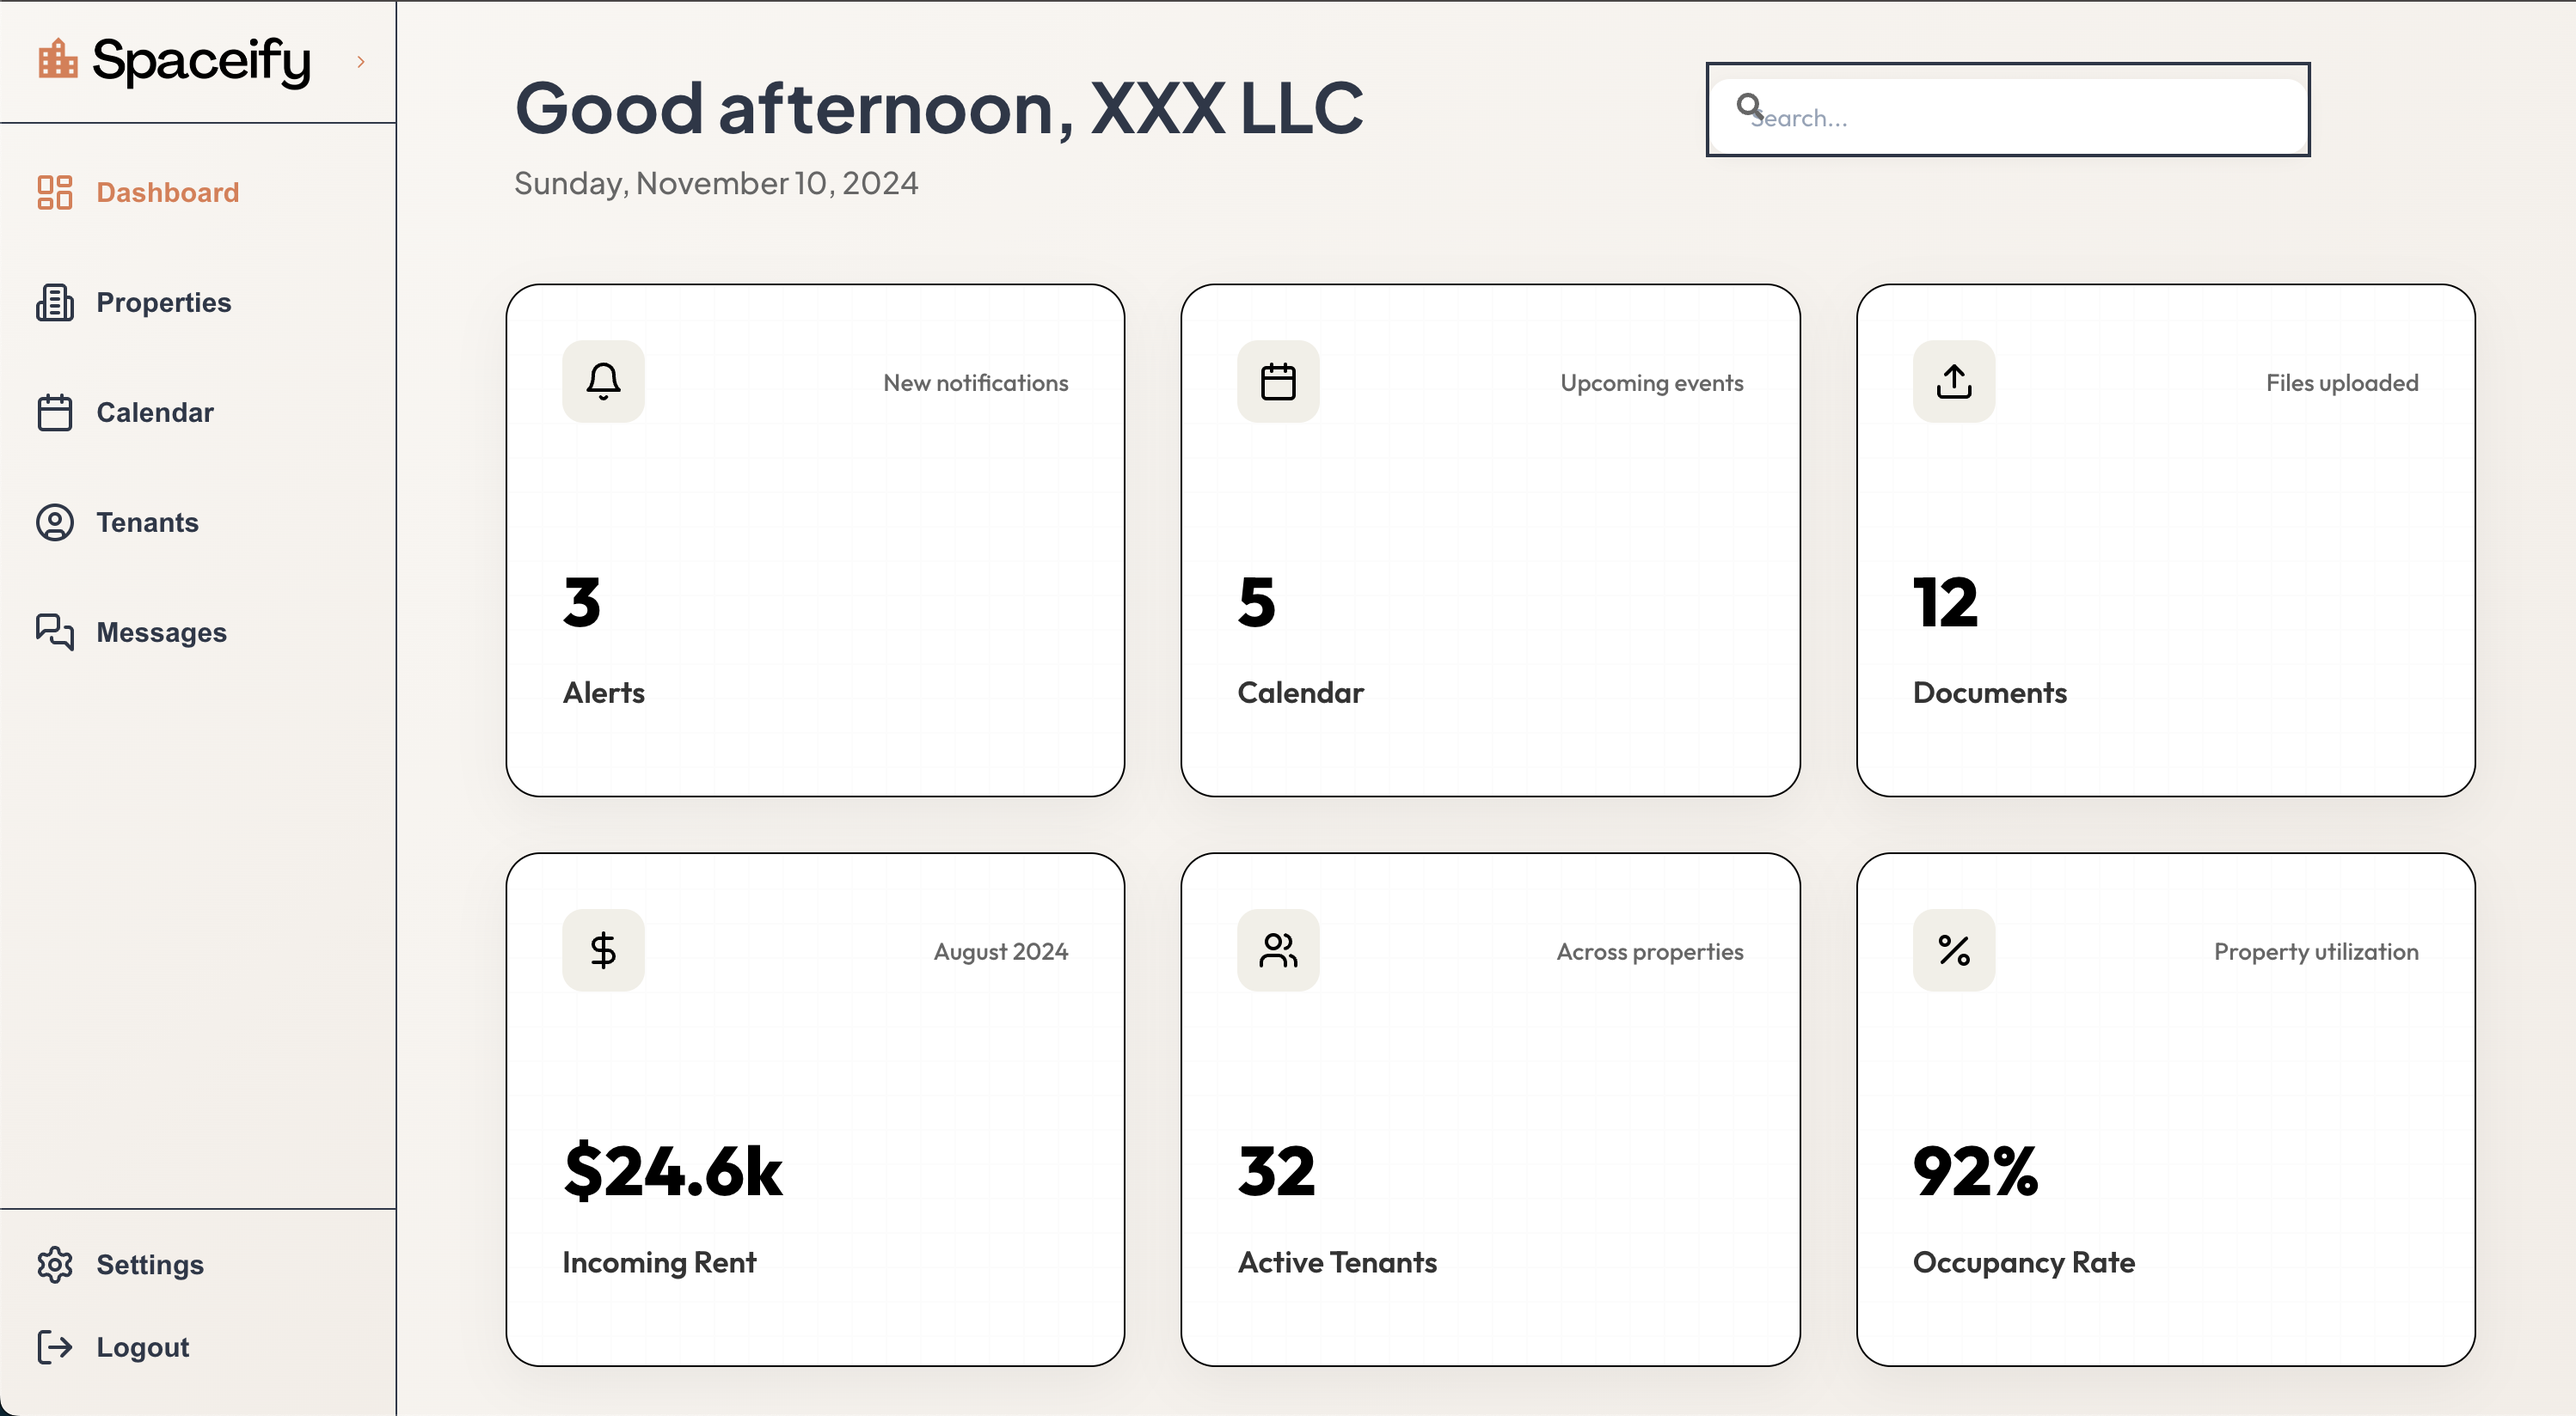
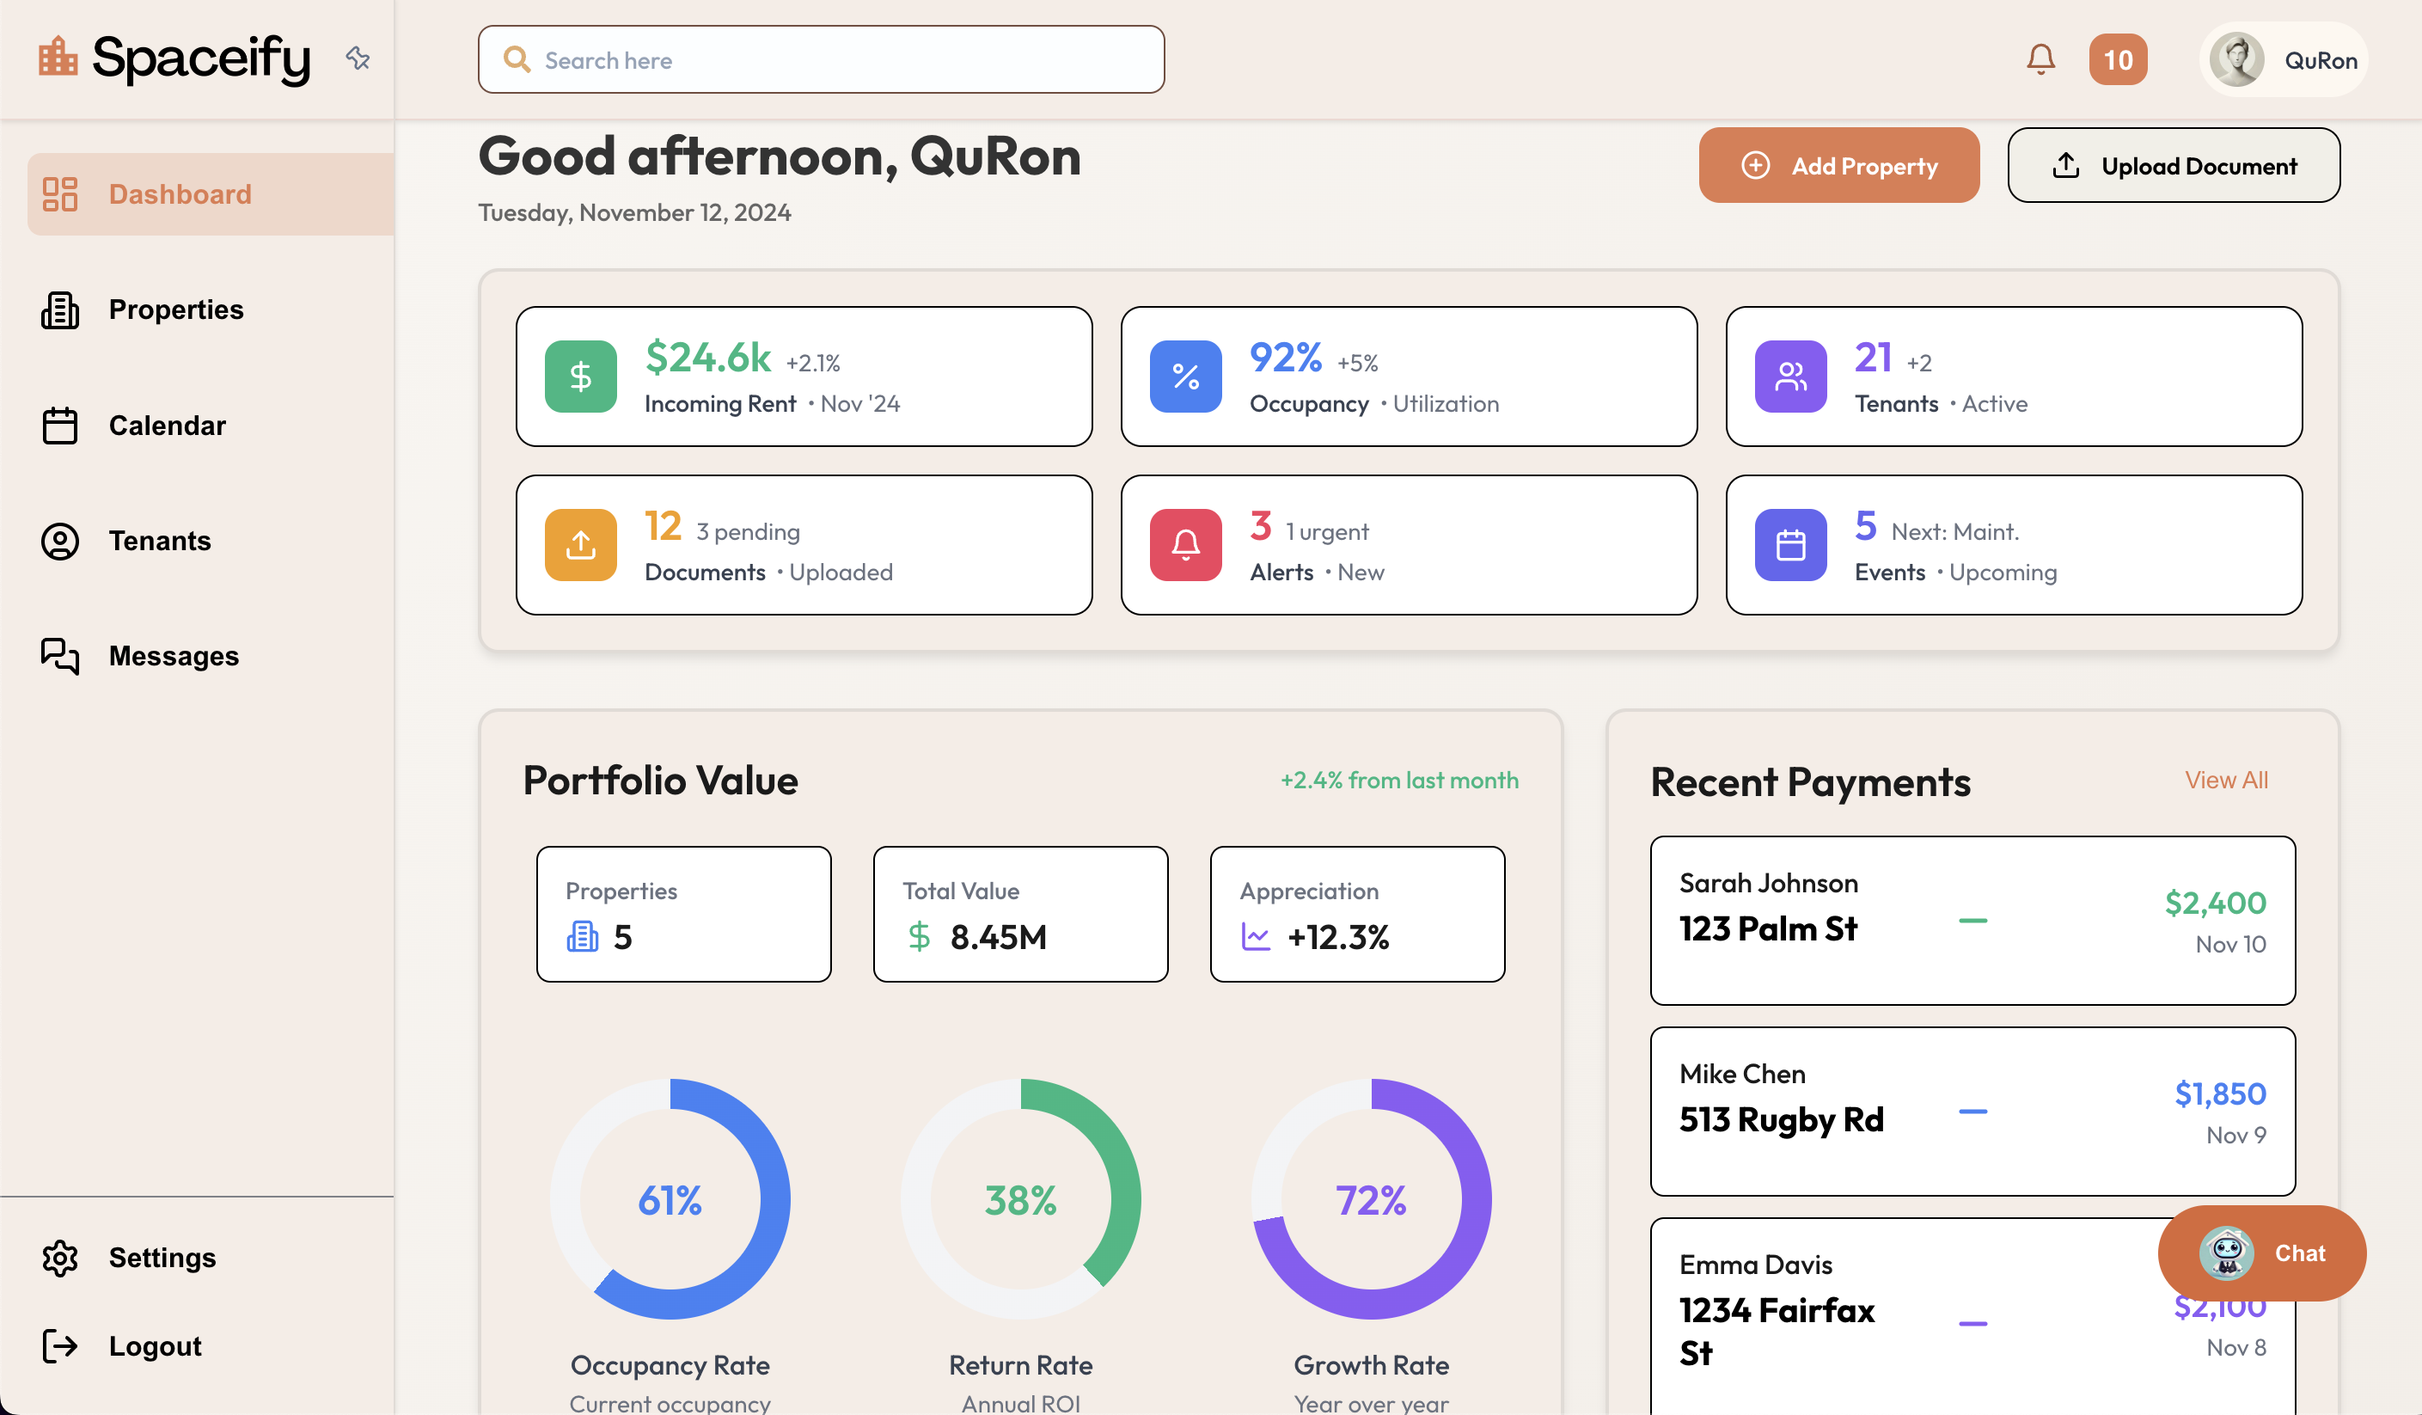
s

diff --git a/client/src/components/dashboard/dashboardMetrics/dashboardMetrics.js b/client/src/components/dashboard/dashboardMetrics/dashboardMetrics.js
@@ -34,7 +34,7 @@ const DashboardMetrics = () => {
     },
     {
       title: "Tenants",
-      value: "32",
+      value: "21",
       icon: Users,
       subtitle: "Active",
       trend: "+2",
@@ -90,7 +90,7 @@ const DashboardMetrics = () => {
   const payments = [
     {
       tenant: "Sarah Johnson",
-      property: "123 Palm Ave",
+      property: "123 Palm St",
       amount: 2400,
       date: "Nov 10",
       status: "Completed",
@@ -98,7 +98,7 @@ const DashboardMetrics = () => {
     },
     {
       tenant: "Mike Chen",
-      property: "456 Oak St",
+      property: "513 Rugby Rd",
       amount: 1850,
       date: "Nov 9",
       status: "Processing",
@@ -106,7 +106,7 @@ const DashboardMetrics = () => {
     },
     {
       tenant: "Emma Davis",
-      property: "789 Pine Rd",
+      property: "1234 Fairfax St",
       amount: 2100,
       date: "Nov 8",
       status: "Completed",
@@ -114,7 +114,7 @@ const DashboardMetrics = () => {
     },
     {
       tenant: "Alex Thompson",
-      property: "321 Maple Dr",
+      property: "2420 Old Ivy Rd",
       amount: 1950,
       date: "Nov 7",
       status: "Completed",
@@ -156,7 +156,7 @@ const DashboardMetrics = () => {
           <span className='metric-label'>Properties</span>
           <div className='metric-value'>
             <Building2 size={20} className='metric-icon blue' />
-            <span>32</span>
+            <span>5</span>
           </div>
         </div>
         <div className='metric-block'>

diff --git a/client/src/components/dashboard/pages/calendar/Calendar.jsx b/client/src/components/dashboard/pages/calendar/Calendar.jsx
@@ -178,6 +178,14 @@ const Calendar = () => {
       type: "primary",
       attendees: ["JM", "FD", "AC", "CEO"],
     },
+
+    {
+      id: 15,
+      title: "Lease Renewal for Thomas Qu",
+      start: new Date(2024, 10, 30, 7, 0),
+      end: new Date(2024, 10, 30, 16, 0),
+      type: "primary",
+    },
   ];
 
   const getTodayDate = () => {
